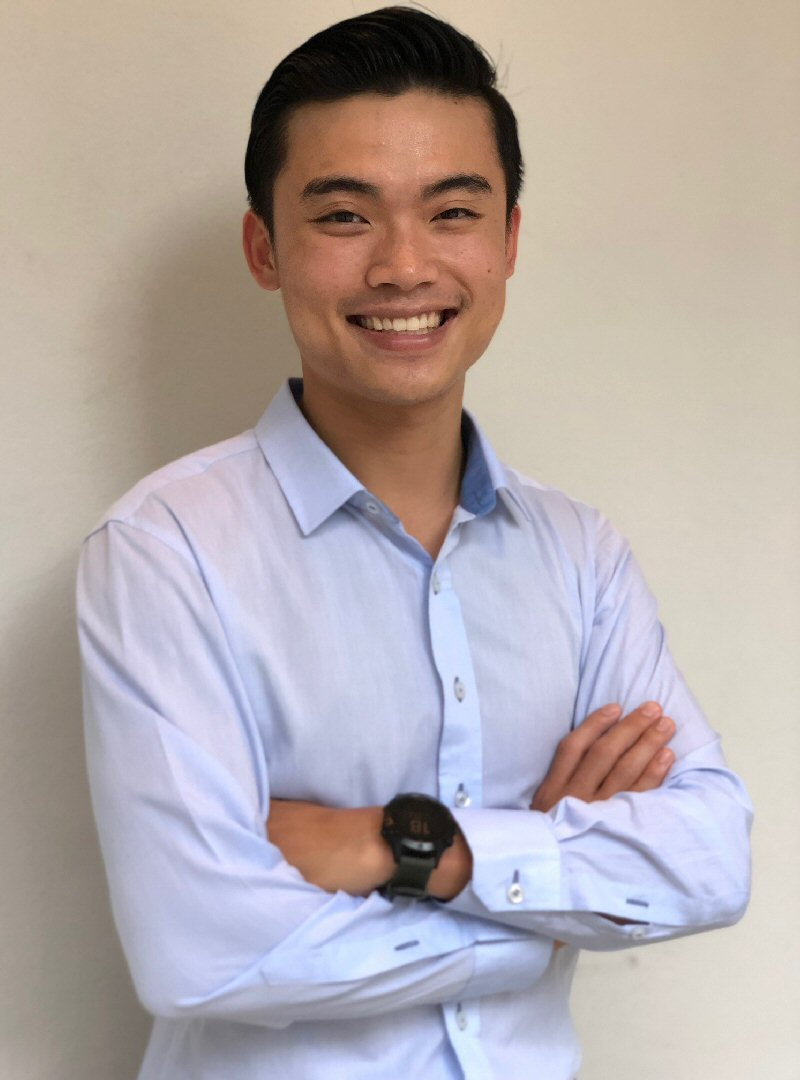
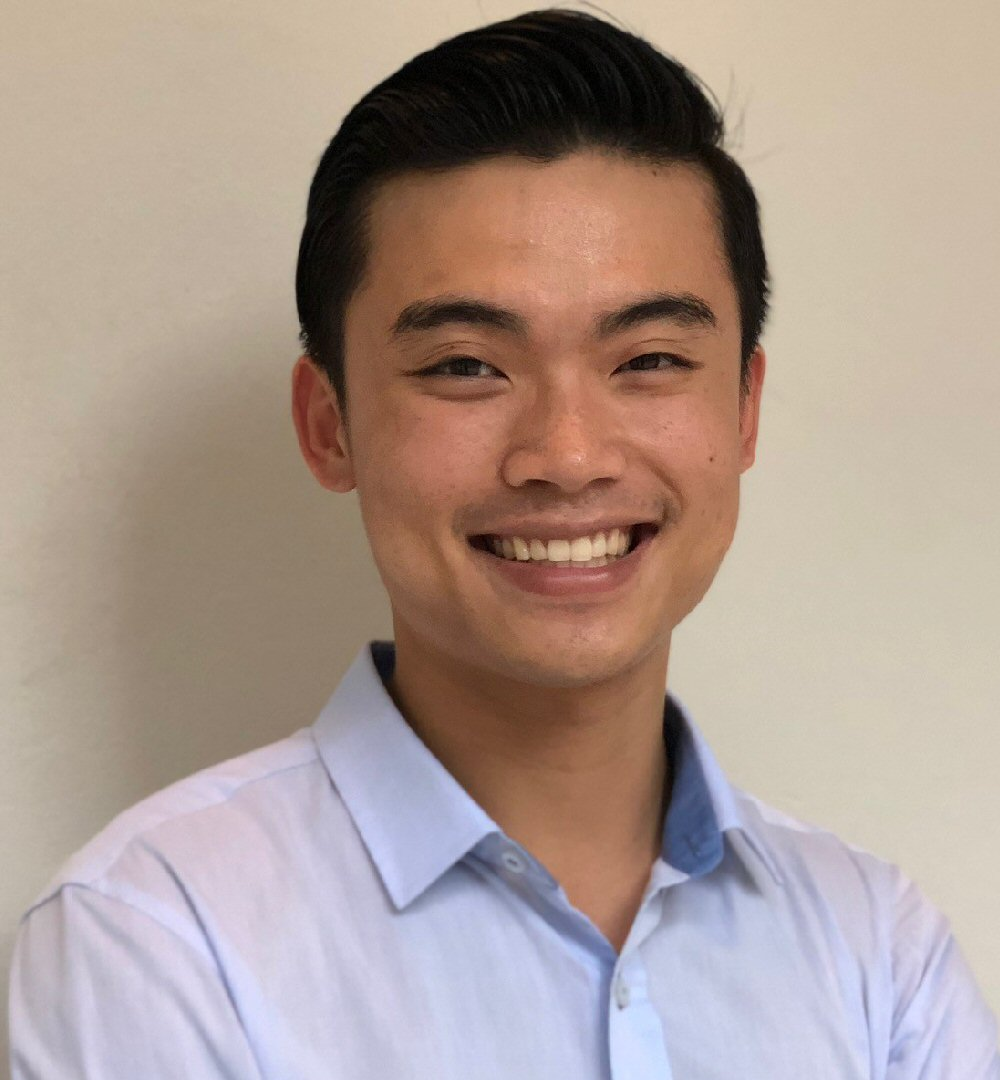
Adjust image cropping

diff --git a/_scholarships-awards/students/sgis.md b/_scholarships-awards/students/sgis.md
@@ -70,9 +70,9 @@ Partnering with the Singapore Government, industry players (e.g. Power sector) o
             Nanyang Technological University
         </span>
     </div>
-    <div style="display: inline-block; vertical-align: top; text-align: center; width: 180px; margin: auto; margin-bottom: 20px;">
+    <div style="display: inline-block; vertical-align: top; text-align: center; width: 225px; margin: auto; margin-bottom: 20px;">
         <img alt="Photograph of Goh Yi Hui" src="/images/scholarships/youth/profile-photo-gyh.jpg" 
-            style="width: 180px;"/><br/>
+            style="width: 225px;"/><br/>
         <strong>Goh Yi Hui</strong><br/>
         <span style="font-style: italic;">
             Bachelor in Engineering (Electrical & Electronics) with Business Minor
